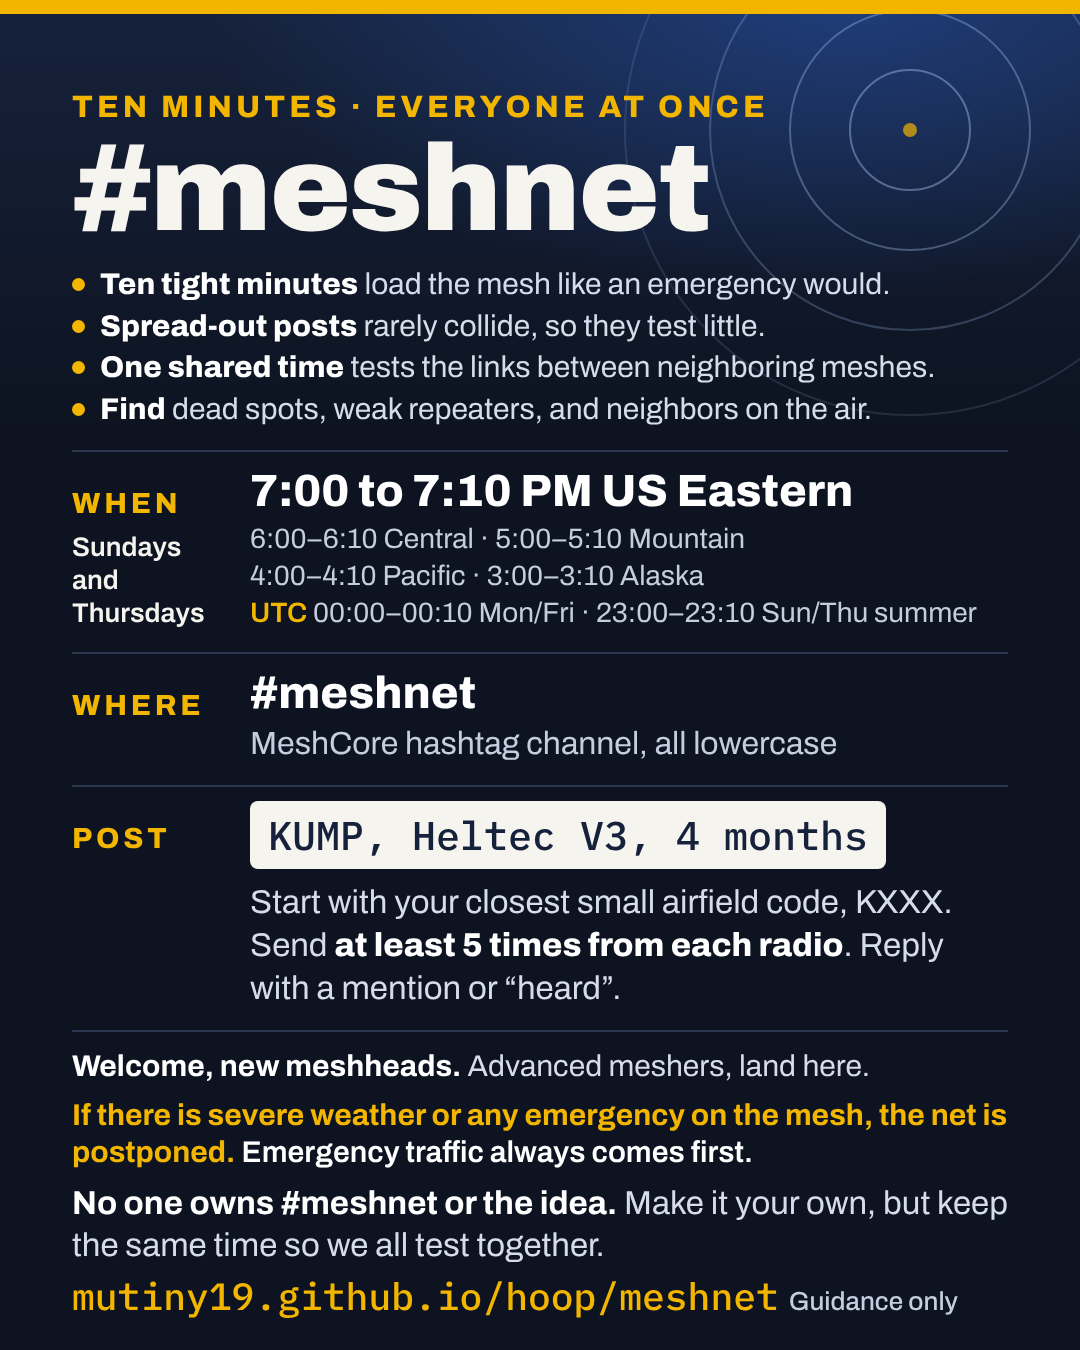
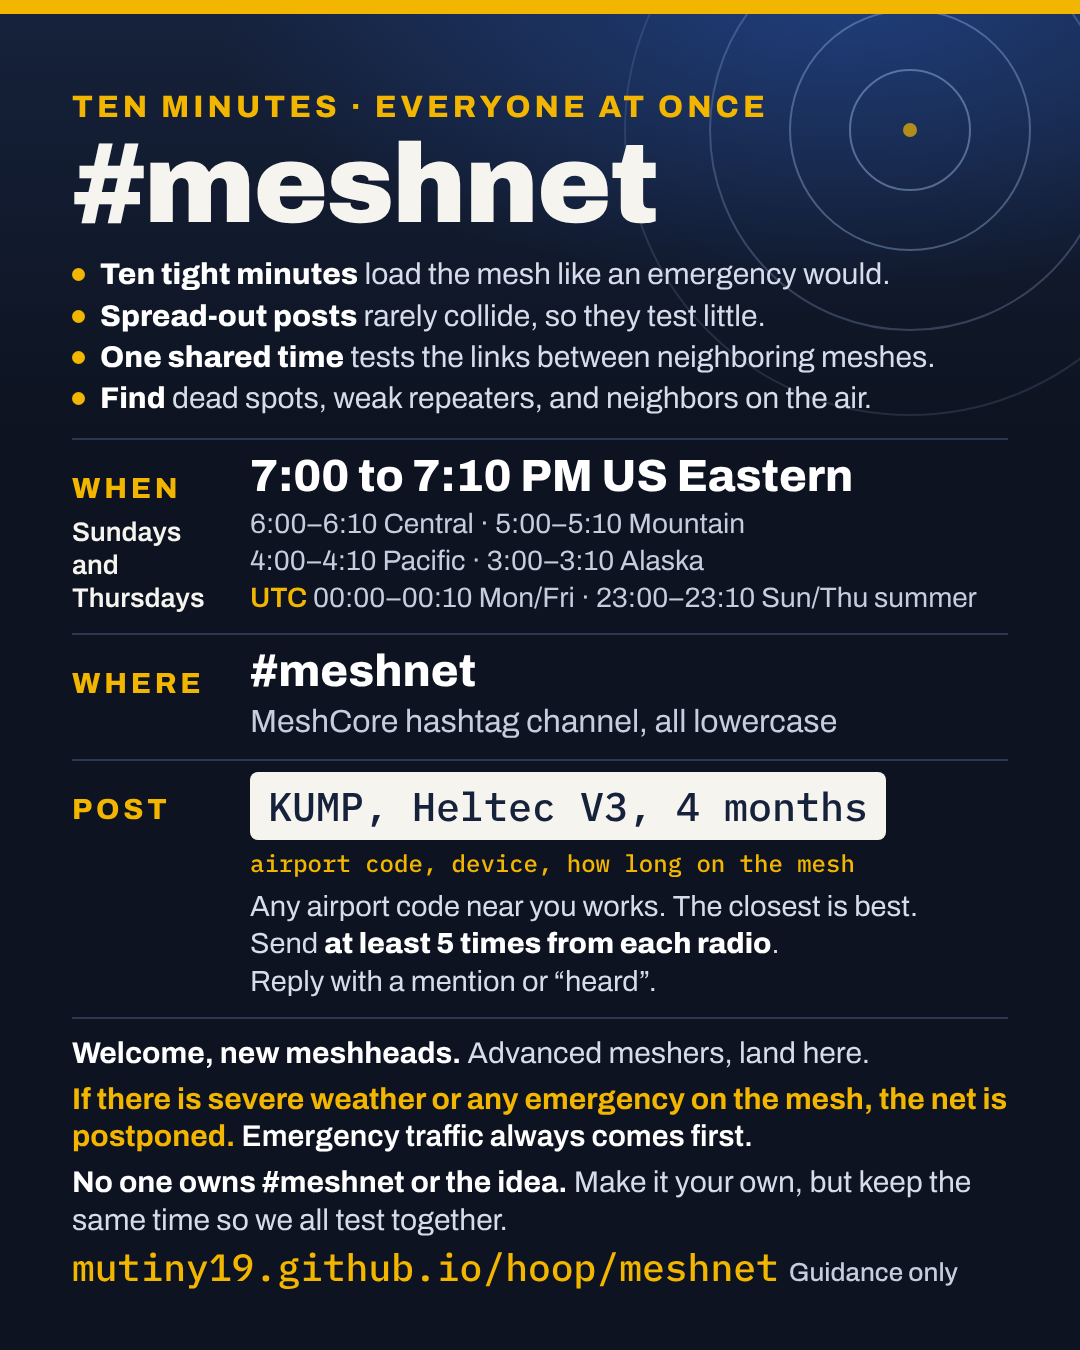
#meshnet invite: one image with every time zone, and a plainer check-in line
The check-in now asks for an airport code near you, with the pattern spelled out
under the example. A big airport's three letters and a small airfield's code both
log; the wording says only that the closest says the most. The second image's
filename is kept as a copy so links already shared still open.

Claude-Session: https://claude.ai/code/session_01WD4jFhUxvP5nJsd9kdkoez

diff --git a/meshnet/index.html b/meshnet/index.html
@@ -83,7 +83,7 @@ code.ex { font: 500 1rem/1 var(--mono); background: var(--panel); border: 1px so
 .addch img { background: #fff; padding: 6px; border-radius: 8px; flex: none; }
 .addch .note { margin-top: 8px; max-width: 46ch; }
 .addch .btn { display: inline-block; font: 700 15px/1 var(--body); border-radius: 6px; padding: 13px 18px; text-decoration: none; background: var(--beacon); color: #16223C; }
-.share { display: grid; grid-template-columns: repeat(2, minmax(0, 1fr)); gap: 14px; margin: 14px 0; }
+.share { max-width: 420px; margin: 14px 0; }
 .share figure { margin: 0; }
 .share img { display: block; width: 100%; height: auto; border-radius: 8px; border: 1px solid var(--line); }
 .share figcaption { font-size: .88rem; color: var(--muted); margin-top: 6px; }
@@ -161,7 +161,7 @@ td.mono { font-family: var(--mono); white-space: nowrap; }
       <div class="fact"><b>When</b><span class="clock">7:00 to 7:10 PM US Eastern</span><span class="you" id="whenYou" hidden></span><span>Sundays and Thursdays. Ten minutes, start to finish.</span><span class="utc">00:00 to 00:10 UTC Mon and Fri in winter; 23:00 to 23:10 UTC Sun and Thu in summer</span></div>
       <div class="fact"><b>Where</b><span>The <span class="mono">#meshnet</span> channel on MeshCore, in every region</span></div>
       <div class="fact"><b>Check in with</b><span class="mono">KUMP, Heltec V3, 4 months</span>
-        <dl class="bits"><div><dt class="mono">KUMP</dt><dd>Your closest small airport's code, four letters starting with K. The one part that must be there. <a href="https://www.airnav.com/airports/us/IN" target="_blank" rel="noopener">Find yours</a>.</dd></div><div><dt class="mono">Heltec V3</dt><dd>The radio you're sending from. Optional.</dd></div><div><dt class="mono">4 months</dt><dd>How long you've been on MeshCore, or "new". Optional.</dd></div></dl></div>
+        <dl class="bits"><div><dt class="mono">KUMP</dt><dd>An airport code near you. A big airport's three letters (<span class="mono">IND</span>) work; your closest small airfield (<span class="mono">KUMP</span>) says more. The one part that must be there. <a href="https://www.airnav.com/airports/us/IN" target="_blank" rel="noopener">Find yours</a>.</dd></div><div><dt class="mono">Heltec V3</dt><dd>The radio you're sending from. Optional.</dd></div><div><dt class="mono">4 months</dt><dd>How long you've been on MeshCore, or "new". Optional.</dd></div></dl></div>
     </div>
     <div class="zones" id="zones">
       <p class="note"><b>The same ten minutes for everyone, wherever you are.</b> The net runs on US Eastern time, so check in during the same window as everyone else, not at 7:00 your time. It starts and ends together; that's what loads the mesh. <span id="zonesNext"></span></p>
@@ -181,7 +181,7 @@ td.mono { font-family: var(--mono); white-space: nowrap; }
         <div class="addch"><img src="../assets/meshnet-channel-qr.svg" alt="QR code that adds the #meshnet channel in the MeshCore app" width="120" height="120"><div><a class="btn primary" href="meshcore://channel/add?name=%23meshnet&amp;secret=0c975040209531454726cc939483b36b">Add #meshnet in the app</a><p class="note">On your phone, tap the button; on a computer, scan the code with the MeshCore app. Needs app version 1.47 or newer. The link uses <a href="https://docs.meshcore.io/qr_codes/" target="_blank" rel="noopener">MeshCore's channel QR format</a>.</p></div></div></li>
       <li>Between 7:00 and 7:10 PM US Eastern, post your check-in. Send it <b>at least five times</b> over the ten minutes; the repeats are what load the mesh, and only one is logged. Testing more than one radio? Check in from each, at least five times on each; every radio is logged. Tip: type it before 7:00 and copy it, so each send is just a paste.
         <p class="format"><code class="ex">KUMP, Heltec V3, 4 months</code></p>
-        <p class="note" style="margin-top:12px">Start with your closest small airfield code, <span class="mono">KXXX</span>. The device and months are welcome in any order, and commas help but aren't required: <span class="mono">KUMP</span>, <span class="mono">KUMP Heltec V3</span>, and <span class="mono">KUMP 4 months Heltec V3</span> all count.</p>
+        <p class="note" style="margin-top:12px">Start with an airport code near you. The device and months are welcome in any order, and commas help but aren't required: <span class="mono">KUMP</span>, <span class="mono">KUMP Heltec V3</span>, and <span class="mono">KUMP 4 months Heltec V3</span> all count.</p>
       </li>
       <li>Acknowledge each check-in you hear with a mention and a greeting, or just "heard".</li>
     </ol>
@@ -239,8 +239,7 @@ td.mono { font-family: var(--mono); white-space: nowrap; }
     <p>The goal is to get you connected before the mesh is most needed, and to explore and experiment with the technology.</p>
     <p>The image and the text each stand on their own, so use either or both.</p>
     <div class="share">
-      <figure><a href="../assets/meshnet-invite.png" download="meshnet-invite.png"><img src="../assets/meshnet-invite.png?v=2" alt="#meshnet invite: Sundays and Thursdays, 7:00 to 7:10 PM US Eastern, with times for other North American zones and UTC, on the #meshnet MeshCore hashtag channel. Start with your closest small airfield code; send at least five times from each radio." width="1080" height="1350" loading="lazy"></a><figcaption><a href="../assets/meshnet-invite.png" download="meshnet-invite.png">Download</a> · North American time zones</figcaption></figure>
-      <figure><a href="../assets/meshnet-invite-utc.png" download="meshnet-invite-utc.png"><img src="../assets/meshnet-invite-utc.png?v=2" alt="#meshnet invite with the time in US Eastern and UTC for winter and summer." width="1080" height="1350" loading="lazy"></a><figcaption><a href="../assets/meshnet-invite-utc.png" download="meshnet-invite-utc.png">Download</a> · UTC for both seasons</figcaption></figure>
+      <figure><a href="../assets/meshnet-invite.png" download="meshnet-invite.png"><img src="../assets/meshnet-invite.png?v=3" alt="#meshnet invite: Sundays and Thursdays, 7:00 to 7:10 PM US Eastern, with times for other North American zones and UTC, on the #meshnet MeshCore hashtag channel. Post an airport code near you, then device and how long on the mesh; send at least five times from each radio." width="1080" height="1350" loading="lazy"></a><figcaption><a href="../assets/meshnet-invite.png" download="meshnet-invite.png">Download</a> · every time zone</figcaption></figure>
     </div>
     <div class="invite">
       <div class="head"><b>Text version</b><button class="copy" type="button" data-copy="invite-text">Copy</button></div>
@@ -255,7 +254,7 @@ UTC: 00:00 to 00:10 Monday and Friday in winter, 23:00 to 23:10 Sunday and Thurs
 
 Where: the #meshnet hashtag channel on MeshCore, all lowercase.
 
-Post: start with your closest small airfield code, KXXX. Device and months on MeshCore are optional.
+Post: an airport code near you, then your device and how long on the mesh (those two are optional). Any nearby code works; the closest airfield says the most.
 KUMP, Heltec V3, 4 months
 Send it at least 5 times from each radio you're testing. Answer each one you hear with a mention or just "heard". Chat before and after is welcome.
 

diff --git a/tools/meshnet_invite.html b/tools/meshnet_invite.html
@@ -9,25 +9,26 @@ body { width: 1080px; height: 1350px; background: #0D1320; color: #F6F4EE; font-
 .mark { position: absolute; right: 84px; top: 44px; width: 109px; height: 170px; z-index: 1; }
 main { position: relative; z-index: 2; padding: 76px 72px 0; }
 .eyebrow { font-weight: 800; font-size: 31px; letter-spacing: .13em; color: #F2B500; }
-h1 { font-size: 122px; font-weight: 900; line-height: 1.02; letter-spacing: -.02em; margin-top: 4px; }
+h1 { font-size: 112px; font-weight: 900; line-height: 1.02; letter-spacing: -.02em; margin-top: 4px; }
 ul { list-style: none; padding: 0; margin-top: 12px; font-size: 30px; line-height: 1.38; color: #D6DCEA; }
 li::before { content: ""; display: inline-block; width: 13px; height: 13px; border-radius: 50%; background: #F2B500; margin-right: 15px; transform: translateY(-3px); }
 li b { color: #fff; font-weight: 800; }
-.row { display: grid; grid-template-columns: 178px 1fr; border-top: 2px solid #2B3852; padding: 14px 0 20px; margin-top: 20px; }
+.row { display: grid; grid-template-columns: 178px 1fr; border-top: 2px solid #2B3852; padding: 11px 0 16px; margin-top: 18px; }
 .row + .row { margin-top: 0; }
 .k { font-weight: 800; font-size: 29px; letter-spacing: .13em; color: #F2B500; padding-top: 22px; }
+.fmt { display: block; font: 500 24px/1.2 Plex, monospace; color: #F2B500; margin-top: 9px; }
 .k small { display: block; font-weight: 600; font-size: 27px; letter-spacing: 0; color: #F6F4EE; line-height: 1.22; margin-top: 12px; }
 .big { font-size: 45px; font-weight: 800; color: #fff; }
 .v p { font-size: 28px; color: #C5CDDE; line-height: 1.32; margin-top: 6px; }
 .v p .u { color: #F2B500; font-weight: 600; }
 .code { display: inline-block; background: #F6F4EE; color: #16223C; font: 500 40px/1 Plex, monospace; padding: 14px 18px; border-radius: 8px; }
-.v p.l { font-size: 33px; color: #D6DCEA; line-height: 1.3; margin-top: 12px; }
+.v p.l { font-size: 29px; color: #D6DCEA; line-height: 1.3; margin-top: 10px; }
 .v p.l b { color: #fff; font-weight: 800; }
 .foot { border-top: 2px solid #2B3852; margin-top: 0; padding-top: 16px; font-size: 30px; line-height: 1.26; color: #D6DCEA; }
-.foot p { margin-bottom: 11px; }
+.foot p { margin-bottom: 8px; }
 .foot b { color: #fff; font-weight: 700; }
 .foot .warn b { color: #F2B500; }
-.foot .own { font-size: 33px; }
+.foot .own { font-size: 30px; }
 .url { font: 500 38px/1 Plex, monospace; color: #F2B500; white-space: nowrap; }
 .url small { font: 500 26px/1 Archivo, sans-serif; color: #C5CDDE; margin-left: 10px; }
 </style></head><body>
@@ -44,7 +45,7 @@ li b { color: #fff; font-weight: 800; }
   </ul>
   <div class="row"><div class="k">WHEN<small>Sundays<br>and<br>Thursdays</small></div><div class="v"><div class="big">7:00 to 7:10 PM US Eastern</div>WHENLINES</div></div>
   <div class="row"><div class="k">WHERE</div><div class="v"><div class="big">#meshnet</div><p style="font-size:32px">MeshCore hashtag channel, all lowercase</p></div></div>
-  <div class="row"><div class="k">POST</div><div class="v"><span class="code">KUMP, Heltec V3, 4 months</span><p class="l">Start with your closest small airfield code, KXXX. Send <b>at least 5 times from each radio</b>. Reply with a mention or “heard”.</p></div></div>
+  <div class="row"><div class="k">POST</div><div class="v"><span class="code">KUMP, Heltec V3, 4 months</span><span class="fmt">airport code, device, how long on the mesh</span><p class="l">Any airport code near you works. The closest is best.<br>Send <b>at least 5 times from each radio</b>.<br>Reply with a mention or “heard”.</p></div></div>
   <div class="foot">
     <p><b>Welcome, new meshheads.</b> Advanced meshers, land here.</p>
     <p class="warn"><b>If there is severe weather or any emergency on the mesh, the net is postponed.</b> <span style="color:#fff;font-weight:600">Emergency traffic always comes first.</span></p>

diff --git a/tools/meshnet_invite.js b/tools/meshnet_invite.js
@@ -1,13 +1,14 @@
-// Renders the two #meshnet invite images (assets/meshnet-invite.png and -utc.png) from tools/meshnet_invite.html.
+// Renders the #meshnet invite image (assets/meshnet-invite.png, every time zone on one picture) from tools/meshnet_invite.html,
+// and copies it to meshnet-invite-utc.png, a filename from when there were two.
 // Run by hand when the wording, time, or colors change; needs Node with Playwright installed:
 //     node tools/meshnet_invite.js
 // Keep the filenames, then bump the ?v= on the images in meshnet/index.html.
 const { chromium } = require('playwright'); const fs=require('fs'); const path=require('path');
 (async () => { const repo=path.resolve(__dirname,'..'), S=require('os').tmpdir(); const tpl=fs.readFileSync(path.join(__dirname,'meshnet_invite.html'),'utf8').replaceAll('FONTS','file://'+repo+'/assets/fonts').replace('MARK','file://'+repo+'/assets/mark.svg');
- const v={ 'meshnet-invite': '<p>6:00–6:10 Central · 5:00–5:10 Mountain<br>4:00–4:10 Pacific · 3:00–3:10 Alaska<br><span class="u">UTC</span> 00:00–00:10 Mon/Fri · 23:00–23:10 Sun/Thu summer</p>',
-           'meshnet-invite-utc': '<p><span class="u">00:00 to 00:10 UTC</span> Mon and Fri in winter<br><span class="u">23:00 to 23:10 UTC</span> Sun and Thu in summer</p>' };
+ const WHEN = '<p>6:00–6:10 Central · 5:00–5:10 Mountain<br>4:00–4:10 Pacific · 3:00–3:10 Alaska<br><span class="u">UTC</span> 00:00–00:10 Mon/Fri · 23:00–23:10 Sun/Thu summer</p>';
  const b = await chromium.launch({args:['--allow-file-access-from-files']}); const p = await b.newPage({ viewport:{width:1080,height:1350}, deviceScaleFactor:1 });
- for (const k in v) { const f=path.join(S,k+'.html'); fs.writeFileSync(f, tpl.replace('WHENLINES', v[k])); await p.goto('file://'+f); await p.waitForTimeout(700);
-  const h = await p.evaluate(()=>document.querySelector('main').getBoundingClientRect().bottom); console.log(k,'content bottom',Math.round(h));
-  await p.screenshot({path:path.join(repo,'assets',k+'.png')}); }
+ const f=path.join(S,'meshnet-invite.html'); fs.writeFileSync(f, tpl.replace('WHENLINES', WHEN)); await p.goto('file://'+f); await p.waitForTimeout(700);
+ const h = await p.evaluate(()=>document.querySelector('main').getBoundingClientRect().bottom); console.log('content bottom',Math.round(h),'of 1350');
+ const out=path.join(repo,'assets','meshnet-invite.png'); await p.screenshot({path:out});
+ fs.copyFileSync(out, path.join(repo,'assets','meshnet-invite-utc.png'));   // the old second filename, kept so links already shared still open
  await b.close(); })();

diff --git a/sw.js b/sw.js
@@ -2,7 +2,7 @@
    Scripts, styles, fonts and images: the saved copy at once, refreshed in the background.
    data/*.json: network first, saved copy when offline. Anything on another site (weather, maps) is left alone.
    Bump CACHE when the list below changes, and whenever a script or stylesheet changes. */
-var CACHE = "hoop-v42";
+var CACHE = "hoop-v43";
 var PRECACHE = ["./", "meshcore/", "meshnet/", "emergency/", "live/", "projects/", "channels/", "gifts/",
   "assets/site.css", "assets/site.js", "assets/theme.js", "assets/home.js", "assets/nets.js", "assets/chirps.js",
   "assets/fonts/archivo.woff2", "assets/fonts/plex-mono-400.woff2", "assets/fonts/plex-mono-500.woff2",

diff --git a/CLAUDE.md b/CLAUDE.md
@@ -68,6 +68,7 @@ before `builder.js` and `modes.js`.
 - Site name, Discord invite, repo URL: they appear in the header and footer of every page.
   `grep -rl "discord.gg" --include=*.html .` finds them all; `FORKING.md` has the checklist.
 - Region tags, metros, groups' tags: edit `advanced/regions.js` only.
+- The #meshnet check-in asks for "an airport code near you", never for an IATA or ICAO code by name: a big airport's three letters and a small airfield's K code both log, and the wording says only that the closest airfield says the most. Keep that wording the same on the image, the text invite, and the page's steps.
 - Area channels on the MeshCore card are channels people report using, not a naming rule HOOP sets. When a local group publishes its own channel (NEIMesh uses `#nei`, not `#fwa`), show theirs. The card says which are confirmed by a local group (so far only `#nei`); the rest stay labelled unconfirmed until one is.
 - Nearby groups: the table on `meshcore/index.html`, the state cells below it, and step 4 of the
   Abbreviated mode on `advanced/index.html`.
@@ -77,7 +78,7 @@ before `builder.js` and `modes.js`.
   `meshnet/`. It is a small site; a second description is just a second thing to keep in sync.
 - Ham nets statewide come from Indiana Ham Radio's open data (`https://indianahamradio.com/data/nets.json`; their terms: use it freely, and tell them when one is wrong). `tools/update_ham_nets.py` (weekly, `hamnets.yml`) converts it to HOOP's net format in `data/ham-nets.json`: Eastern time, no club or sponsor fields, callsigns dropped from names, nets without a set time counted but not listed, and nets HOOP already lists left out, with any disagreement recorded in `differs` and shown beside HOOP's row. Never edit that file by hand; corrections to those nets go to Indiana Ham Radio. Only the schedule on `channels/#nets` shows them; the map's list and the CHIRP notes stay on HOOP's own list.
 - Nets: `data/nets.json` is the one list. It keeps its ham nets even where Indiana Ham Radio's feed has the same net, because HOOP's entry carries more (the repeater site for the reach circle, the tone, the note on the CHIRP row); the feed only adds the nets HOOP does not have. Three views read it and nothing else: the next nets beside the home map, the notes on each repeater in the CHIRP table, and the full "Every net, by day" schedule on `channels/#nets`. `assets/nets.js` holds the shared schedule and link helpers (`Nets.linkOf`). Never add a second copy of a net anywhere; the printable PDF card is built separately and can lag. An optional `link` on a net is its own public page (a club or net website, never a personal page); the home page shows it under the net, and shows a prefilled "add one" issue link when there is none. Suggested settings: `data/settings/*.json`.
-- #meshnet times live in several places: `data/nets.json` (the schedule shown on the map) and the constants at the top of `tools/meshnet_log.py` plus the crons in `meshnet.yml`, plus the time-zone script at the bottom of `meshnet/index.html` (`at7`), plus the share images `assets/meshnet-invite*.png` (rendered by `tools/meshnet_invite.js` from `tools/meshnet_invite.html`, in the site's navy and gold with no HOOP logo, since nobody owns #meshnet; keep the filenames and bump the `?v=` on the page when they change) and the text invite in the page's "Share the invite" section. Change them together.
+- #meshnet times live in several places: `data/nets.json` (the schedule shown on the map) and the constants at the top of `tools/meshnet_log.py` plus the crons in `meshnet.yml`, plus the time-zone script at the bottom of `meshnet/index.html` (`at7`), plus the share image `assets/meshnet-invite.png` (one picture with every time zone; `meshnet-invite-utc.png` is a copy kept so links shared earlier still open; rendered by `tools/meshnet_invite.js` from `tools/meshnet_invite.html`, in the site's navy and gold with no HOOP logo, since nobody owns #meshnet; keep the filenames and bump the `?v=` on the page when they change) and the text invite in the page's "Share the invite" section. Change them together.
 - The link-preview picture is `assets/social.png` (1200 by 630), rendered by `tools/social_image.js` from `tools/social_image.html` with the mark and the headline. Chat apps and social sites keep their saved copy of a preview picture until its address changes, so after re-rendering it bump the `?v=` on `og:image` and `twitter:image` on every page. The repository's own preview on GitHub is separate: Settings > General > Social preview, uploaded by hand.
 - Search engines: `robots.txt` in this repo is not read by crawlers, because a project site lives under `/hoop/` and crawlers only read the file at the top of `mutiny19.github.io`; the hidden pages are kept out by their own `noindex` tags, and the sitemap is handed to search engines by its address, not found through `robots.txt`. `sitemap.xml` is rewritten after each push by `tools/make_sitemap.py` (via `changelog.yml`) with each page's last real change from git: add a new page to its `PAGES` list and never edit the file by hand. The home page's `#acc` holds a short `data-fallback` list (each system's name and official link) for readers and crawlers that do not run scripts; `home.js` replaces it, and the word budget does not count it. Keep it to names and links, in step with `PROTOS`.
 - After changing `assets/home.js`, `assets/chirps.js`, `assets/theme.js`, or `assets/site.js`, bump the `?v=` on their script tags on every page that loads them; GitHub Pages and browsers cache them hard. Do the same for `assets/nets.js` and `assets/site.css`, and bump `CACHE` in `sw.js` in the same commit: returning visitors are served saved copies by the service worker, and a page that gets a new script next to an old saved one breaks.

diff --git a/FORKING.md b/FORKING.md
@@ -104,7 +104,7 @@ If you also want a log for your area, copy these:
 | Airports check-ins are placed at | `tools/meshnet_airports.json` | your states' public-use airports from OurAirports' open data, same fields; leave out codes with digits so nobody is placed on a private strip |
 | When it runs | `.github/workflows/meshnet.yml` | nothing, unless you move the time; GitHub starts scheduled runs late, so the script looks back 30 hours |
 | The page and map | `meshnet/index.html` | the map outline and projection, the airport-finder link, and the wording about your area |
-| Invite images | `assets/meshnet-invite*.png` | made by hand; replace them with your own |
+| Invite image | `assets/meshnet-invite.png` | edit `tools/meshnet_invite.html`, then `node tools/meshnet_invite.js` redraws it |
 | The log | `data/meshnet/log.json` | start it empty: `{"nets": []}` |
 
 Do not change `TZ`, `START`, or `MINUTES` at the top of `meshnet_log.py` unless every group moves
